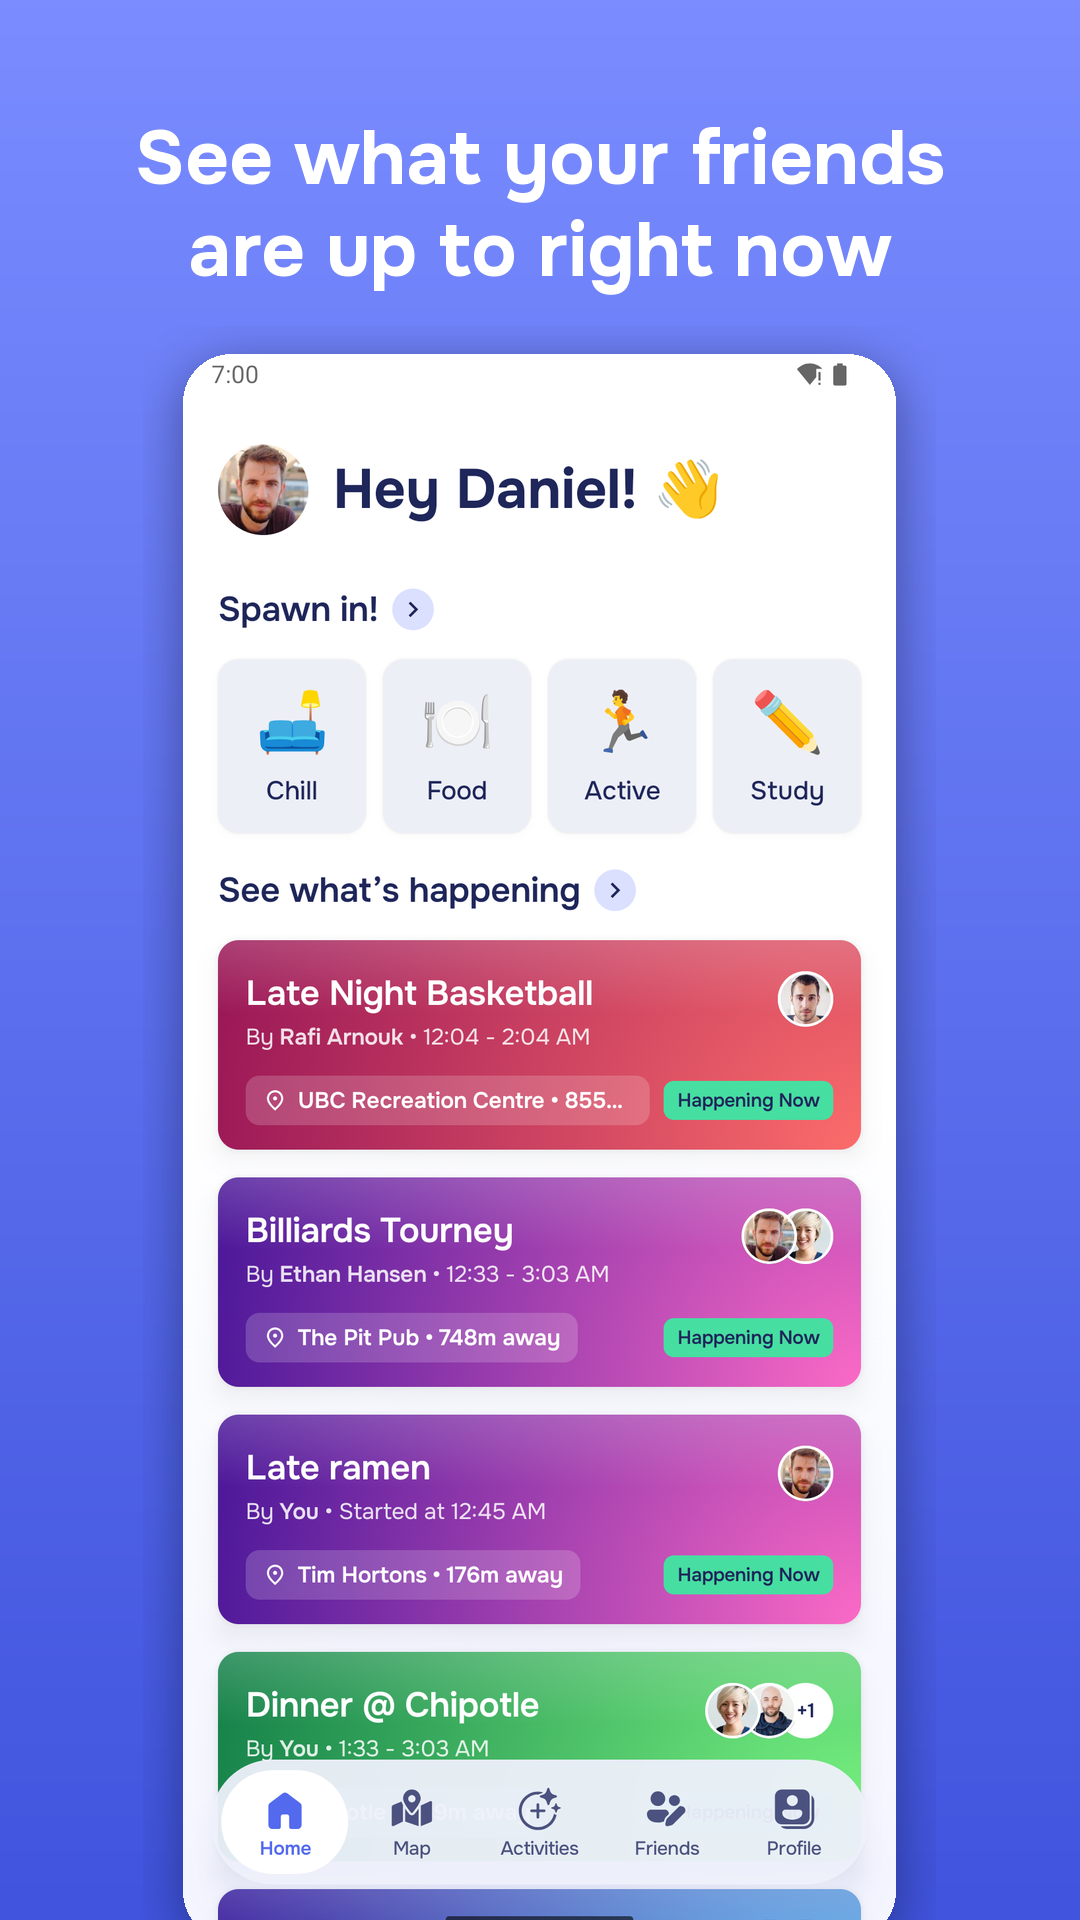
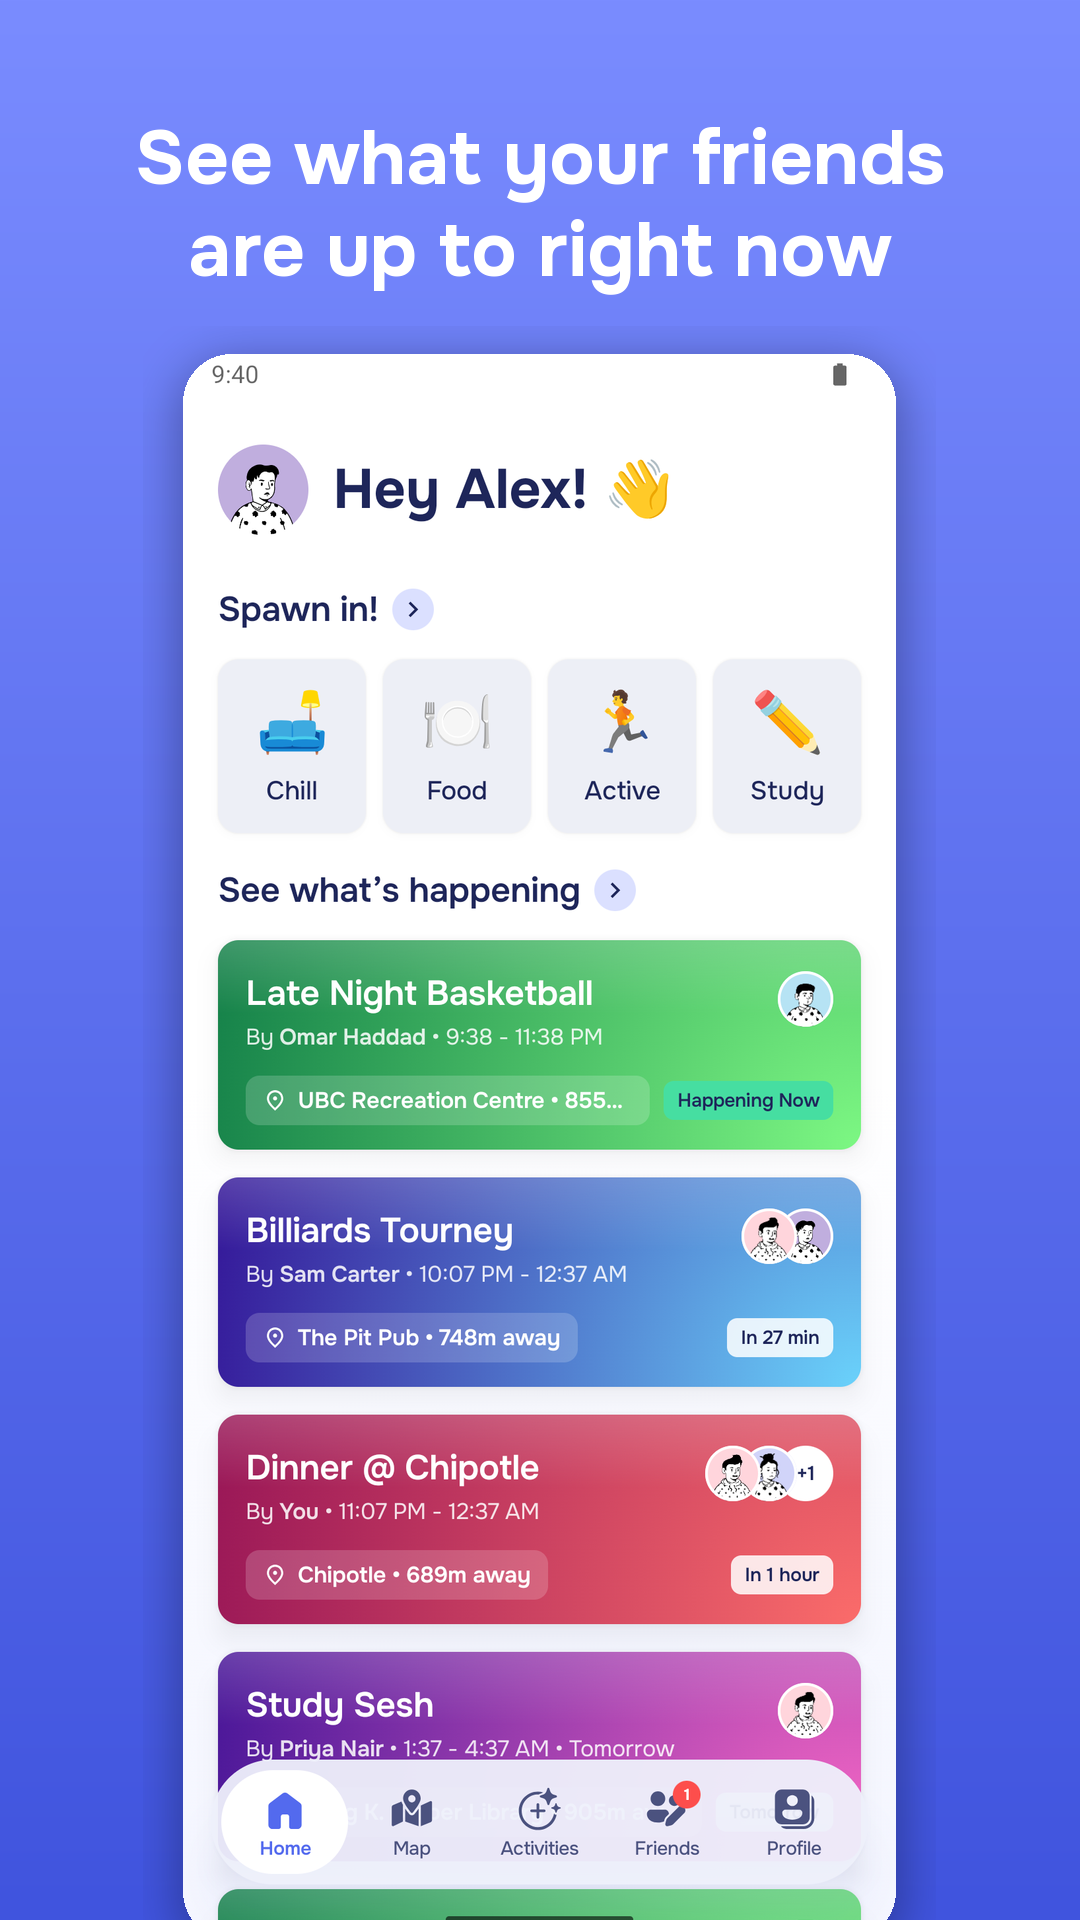
Remake Play Store screenshots with fictional users
The old listing screenshots showed real teammates' names and stock photos
of real people. They're now captured from the fictional seed (#47) with
illustrated avatars (DiceBear Notionists, CC0) instead of randomuser.me
photos.

The seed also writes the email verification row itself, since local email
sending fails and the backend then saves no row to overwrite.

diff --git a/tools/seed_local_backend.py b/tools/seed_local_backend.py
@@ -76,7 +76,13 @@ def ensure_user(username, name, bio):
         return user, token
     email = f"{username}@spawn.test"
     call("POST", "auth/register/verification/send", {"email": email})
-    subprocess.run(MYSQL + [f"UPDATE email_verification SET verification_code='{TEST_CODE_BCRYPT}' WHERE email='{email}'"], check=True)
+    # Local email sending usually fails (no mail credentials), and then the backend saves no
+    # verification row, so write it directly with the known test code.
+    subprocess.run(MYSQL + [
+        "INSERT INTO email_verification (id, check_attempts, send_attempts, email, verification_code, code_expires_at) "
+        f"VALUES (UUID_TO_BIN(UUID()), 0, 1, '{email}', '{TEST_CODE_BCRYPT}', UTC_TIMESTAMP() + INTERVAL 1 DAY) "
+        f"ON DUPLICATE KEY UPDATE verification_code='{TEST_CODE_BCRYPT}', check_attempts=0, code_expires_at=UTC_TIMESTAMP() + INTERVAL 1 DAY"
+    ], check=True)
     status, body, token = call("POST", "auth/register/verification/check", {"email": email, "verificationCode": TEST_CODE})
     if status != 200:
         sys.exit(f"verify {username} failed: {status} {body}")
@@ -98,11 +104,13 @@ def main():
     me, me_tok = accounts["alex"]
     print("users:", {u: a[0]["id"] for u, a in accounts.items()})
 
-    # Placeholder avatars (local DB only) so screenshots look like real accounts.
+    # Illustrated placeholder avatars (local DB only). These end up in the public Play
+    # Store screenshots, so they're drawings (DiceBear "Notionists", CC0), not photos of real people.
     import subprocess
-    avatars = {"alex": "men/32", "jamie": "women/44", "sam": "men/46", "omar": "men/75", "priya": "women/68", "jenna": "women/12", "maya": "women/65", "leo": "men/52"}
-    for u, a in avatars.items():
-        subprocess.run(MYSQL + [f"UPDATE user SET profile_picture_url_string='https://randomuser.me/api/portraits/{a}.jpg' WHERE username='{u}'"], check=True)
+    avatar_bg = {"alex": "c0aede", "jamie": "ffd5dc", "sam": "b6e3f4", "omar": "d1d4f9", "priya": "ffdfbf", "jenna": "c0aede", "maya": "b6e3f4", "leo": "ffd5dc"}
+    for u, bg in avatar_bg.items():
+        url = f"https://api.dicebear.com/9.x/notionists/png?seed={u}&size=256&backgroundColor={bg}"
+        subprocess.run(MYSQL + [f"UPDATE user SET profile_picture_url_string='{url}' WHERE username='{u}'"], check=True)
     subprocess.run(["redis-cli", "-p", "6380", "FLUSHALL"], capture_output=True)
 
     # Friendships: alex <-> everyone except jenna (jenna sends alex a request instead)
